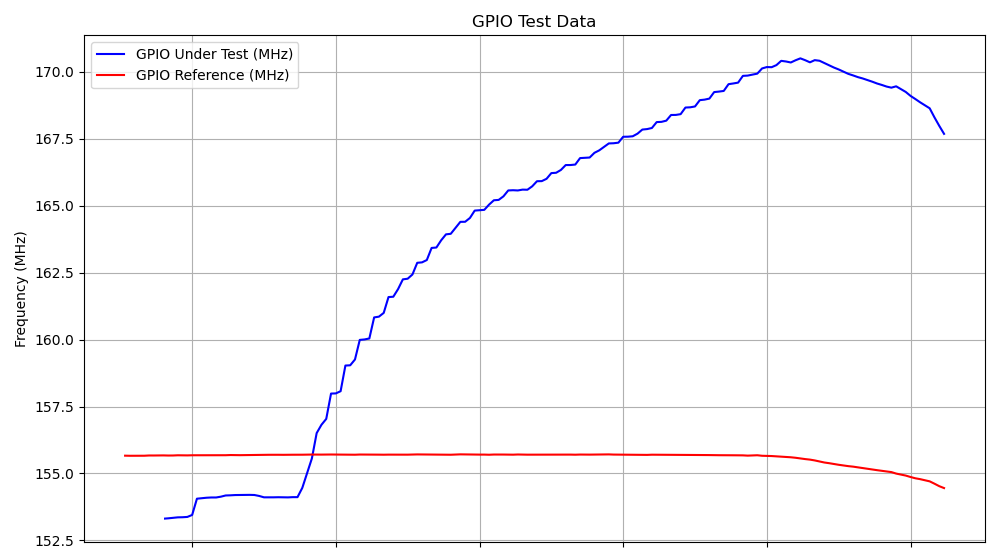
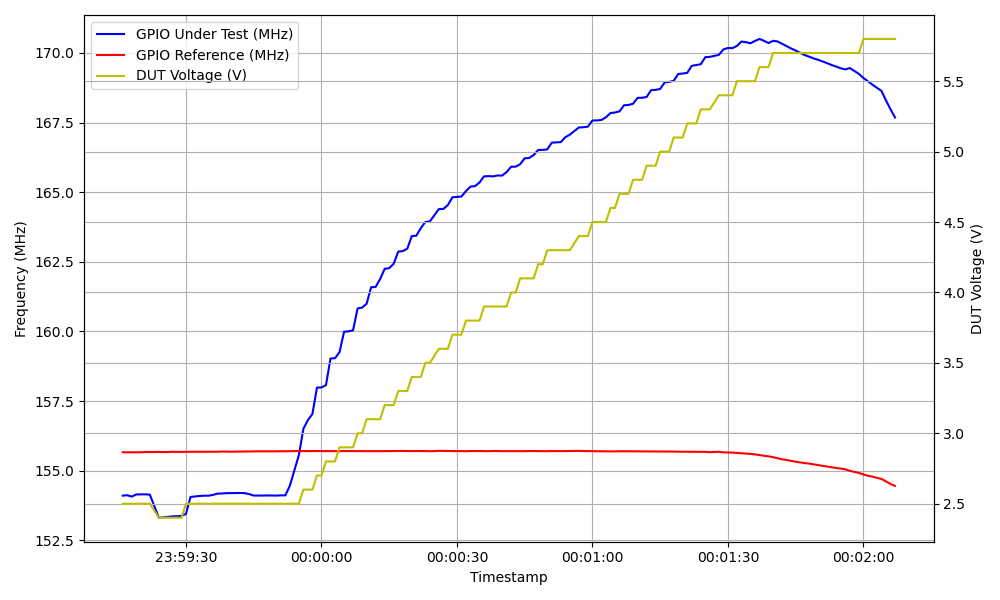
README: update stress vmax

diff --git a/tools/plot.py b/tools/plot.py
@@ -3,7 +3,7 @@ import pandas as pd
 
 def load_and_plot(file_path):
     data = pd.read_csv(file_path, delimiter=';', header=None,
-                       names=['Timestamp', 'GPIO Under Test (MHz)', 'GPIO Reference (MHz)'],
+                       names=['Timestamp', 'GPIO Under Test (MHz)', 'GPIO Reference (MHz)', 'DUT Voltage (V)'],
                        parse_dates=['Timestamp'])
 
     # Strip whitespace from column names
@@ -12,15 +12,26 @@ def load_and_plot(file_path):
     data['GPIO Reference (MHz)'] = data['GPIO Reference (MHz)'] / 1e6
 
     # Plot the data
-    plt.figure(figsize=(10, 6))
-    plt.plot(data['Timestamp'], data['GPIO Under Test (MHz)'], label='GPIO Under Test (MHz)', color='b', linestyle='-', marker='')
-    plt.plot(data['Timestamp'], data['GPIO Reference (MHz)'], label='GPIO Reference (MHz)', color='r', linestyle='-', marker='')
+    fig, ax1 = plt.subplots(figsize=(10, 6))
+
+    line1, = ax1.plot(data['Timestamp'], data['GPIO Under Test (MHz)'], label='GPIO Under Test (MHz)', color='b', linestyle='-', marker='')
+    line2, = ax1.plot(data['Timestamp'], data['GPIO Reference (MHz)'], label='GPIO Reference (MHz)', color='r', linestyle='-', marker='')
+    ax1.set_xlabel('Timestamp')
+    ax1.set_ylabel('Frequency (MHz)')
+    ax1.grid(True)
+
+    ax2 = ax1.twinx()
+    line3, = ax2.plot(data['Timestamp'], data['DUT Voltage (V)'], label='DUT Voltage (V)', color='y', linestyle='-', marker='')
+    ax2.set_ylabel('DUT Voltage (V)')
+    ax2.grid(True)
+
+    # Merge legends
+    lines = [line1, line2, line3]
+    labels = [line.get_label() for line in lines]
+    ax1.legend(lines, labels)
 
     # Formatting the plot
     plt.xlabel('Timestamp')
-    plt.ylabel('Frequency (MHz)')
-    plt.legend()
-    plt.grid(True)
     plt.tight_layout()
     plt.xticks(rotation=45)
 
